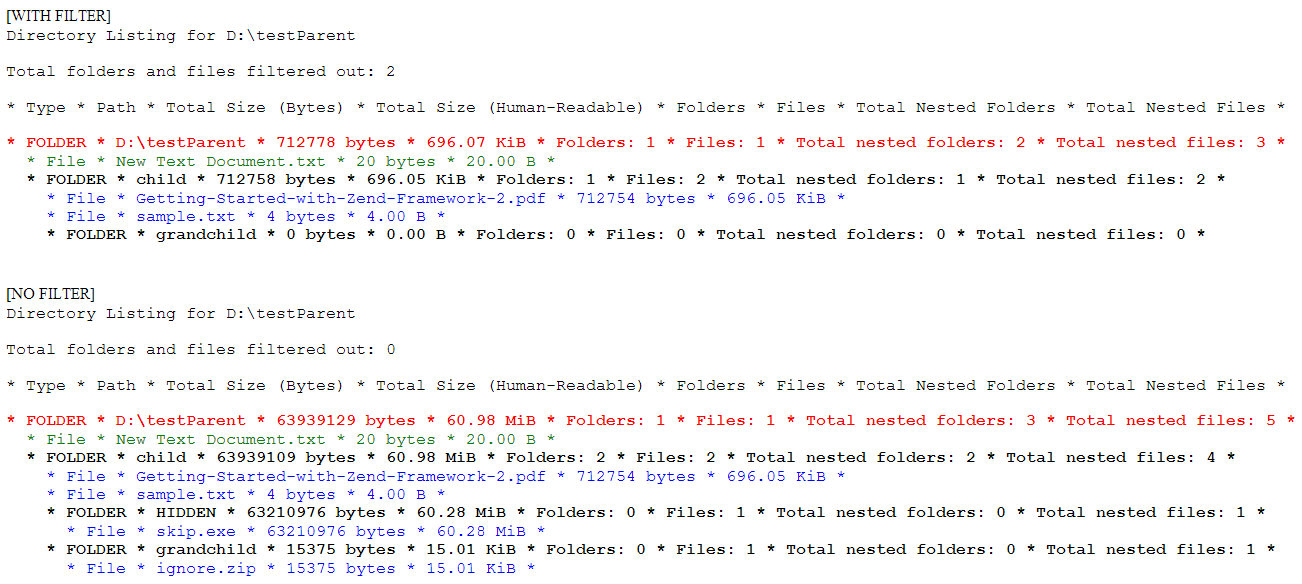
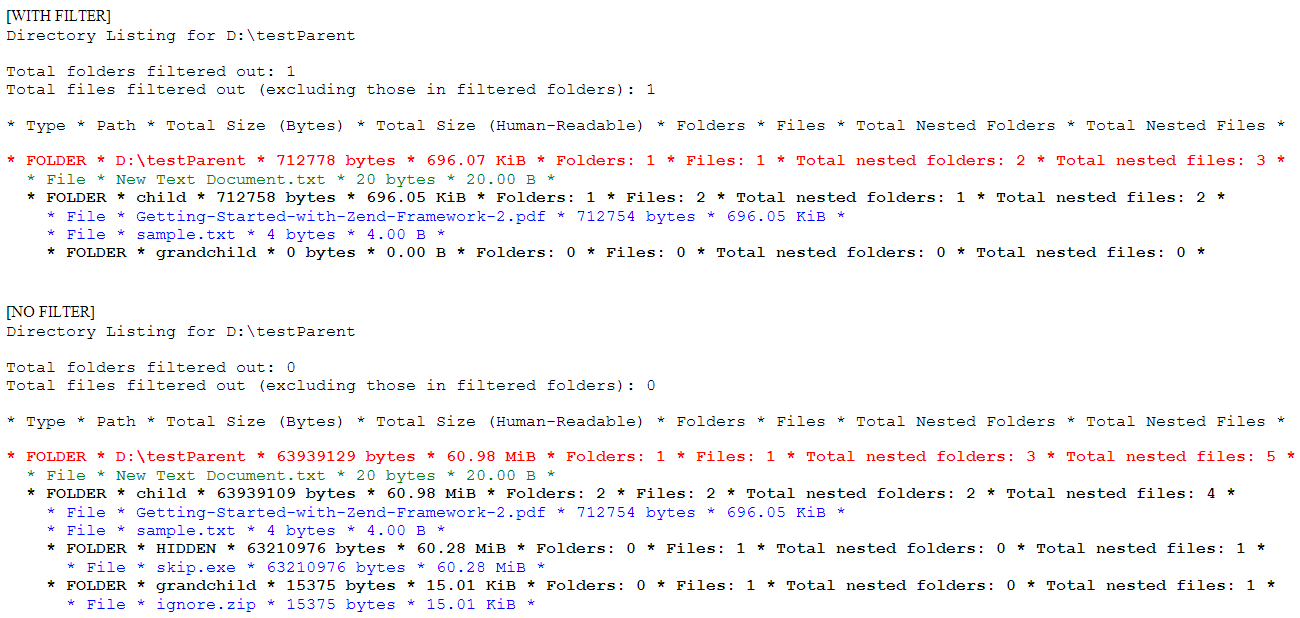
Separate counting of filtered folders and files

Changed region(s): [[0.0, 0.5856, 1.0, 0.9863], [0.0, 0.0, 0.9846, 0.4315], [0.0, 0.4932, 0.2769, 0.5548]]

diff --git a/DirectoryListing/DirectoryListing.php b/DirectoryListing/DirectoryListing.php
@@ -114,7 +114,9 @@ class DirectoryListing
         $output = '';
         if ($level == 0) {
             $output = 'Directory Listing for ' . $info['path'] . '<br /><br />' . PHP_EOL
-                    . 'Total folders and files filtered out: ' . $info['totalFiltered'] . '<br /><br />' . PHP_EOL
+                    . 'Total folders filtered out: ' . $info['totalFolderFiltered'] . '<br />' . PHP_EOL
+                    . 'Total files filtered out (excluding those in filtered folders): '
+                    . $info['totalFileFiltered'] . '<br /><br />' . PHP_EOL
                     . '* Type * Path * Total Size (Bytes) * Total Size (Human-Readable) '
                     . '* Folders * Files * Total Nested Folders * Total Nested Files *'
                     . '<br /><br />' . PHP_EOL;
@@ -181,10 +183,11 @@ class DirectoryListing
             'fileCount'   => 0,      // file count (no nesting) in current folder
             'totalFolderCount' => 0, // total nested subfolders
             'totalFileCount'   => 0, // total nested files in folder and subfolders
-            'totalFiltered'    => 0, // total no. of nested folders and files filtered
-            'totalSize'        => 0, // total size of folder including nesting
-            'folders' => array(),    // store descriptions of subfolders and their files
-            'files'   => array(),    // store descriptions of files in $currDir
+            'totalFolderFiltered' => 0, // total no. of nested folders filtered
+            'totalFileFiltered'   => 0, // total no. of nested files filtered
+            'totalSize' => 0, // total size of folder including nesting
+            'folders'   => array(),    // store descriptions of subfolders and their files
+            'files'     => array(),    // store descriptions of files in $currDir
         );
 
         foreach ((scandir($currDir) ?: array()) as $filename) {
@@ -193,25 +196,30 @@ class DirectoryListing
             }
 
             $filePath = $currDir . '/' . $filename;
-            if ($filterCallback && !$filterCallback($filePath)) {
-                $info['totalFiltered']++;
-                continue;
-            }
 
             if (is_file($filePath)) { // file
+                if ($filterCallback && !$filterCallback($filePath)) {
+                    $info['totalFileFiltered']++;
+                    continue;
+                }
                 $fileSize = filesize($filePath);
                 $info['files'][$filename] = $fileSize;
                 $info['fileCount']++;
                 $info['totalFileCount']++;
                 $info['totalSize'] += $fileSize;
             } else if (is_dir($filePath)) { // subfolder
+                if ($filterCallback && !$filterCallback($filePath)) {
+                    $info['totalFolderFiltered']++;
+                    continue;
+                }
                 $subfolderInfo = $this->getListing($filePath, $filterCallback);
                 $info['folders'][$filename] = $subfolderInfo;
                 $info['folderCount']++;
                 $info['totalFolderCount']++;
                 $info['totalFolderCount'] += $subfolderInfo['totalFolderCount'];
                 $info['totalFileCount']   += $subfolderInfo['totalFileCount'];
-                $info['totalFiltered'] += $subfolderInfo['totalFiltered'];
+                $info['totalFolderFiltered'] += $subfolderInfo['totalFolderFiltered'];
+                $info['totalFileFiltered'] += $subfolderInfo['totalFileFiltered'];
                 $info['totalSize'] += $subfolderInfo['totalSize'];
             }
         } // end foreach $currDir
